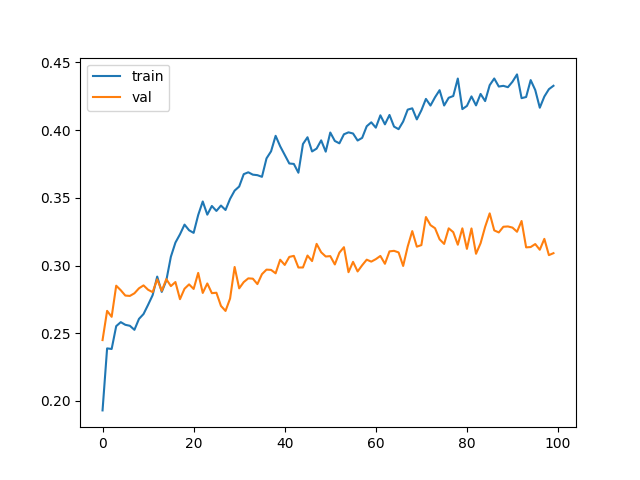
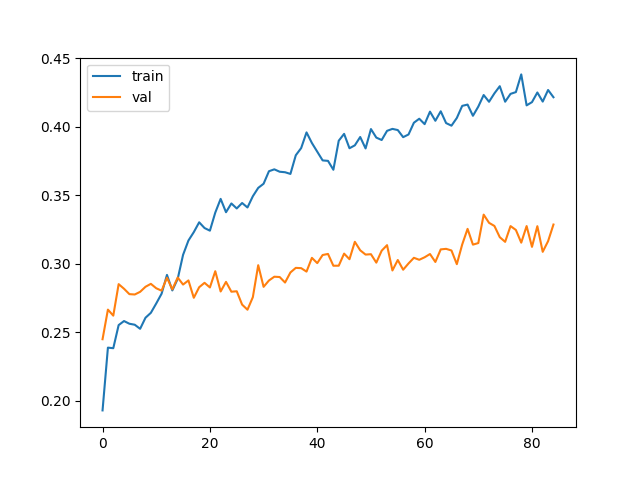
good to go

diff --git a/6_train.py b/6_train.py
@@ -223,9 +223,9 @@ def main():
     per_beta_increment = 0.001  # Beta annealing rate
 
     # Early Stopping
-    es = EarlyStopping(patience=35, delta_ratio=0.01)
+    es = EarlyStopping(patience=13, delta_ratio=0.001)
 
-    # Set device to MPS if available (for Apple Silicon acceleration), else CPU
+    # Set device
     device = torch.device("mps" if torch.backends.mps.is_available() else "cpu")
     print(f"Using device: {device}")
 
@@ -407,21 +407,9 @@ def main():
         val_f1_scores.append(avg_val_f1_score)
 
         # Step the scheduler
-        if scheduler is not None:
-            if scheduler_type == "plateau":
-                scheduler.step(avg_val_f1_score)
-            elif scheduler_type == "dedicated":
-                if epoch >= epoch_start:
-                    for param_group in optimizer.param_groups:
-                        param_group['lr'] *= factor
-            else:
-                scheduler.step()
-
-        if avg_val_f1_score > best_score:
-            best_score = avg_val_f1_score
-            torch.save(online_net.state_dict(), "models/rl-chunk-retriever.pt")
+        scheduler.step()
         
-        if epoch > 2:
+        if epoch > 65:
             if es.step(avg_val_f1_score):
                 print(f"Early stopping at epoch {epoch}")
                 break
@@ -442,6 +430,8 @@ def main():
     plt.plot(val_f1_scores, label='val')
     plt.legend()
     plt.savefig('train_vs_val.png')
+
+    torch.save(online_net.state_dict(), "models/rl-chunk-retriever.pt")
 
     # TEST SET GREEDY
     print("TEST")
